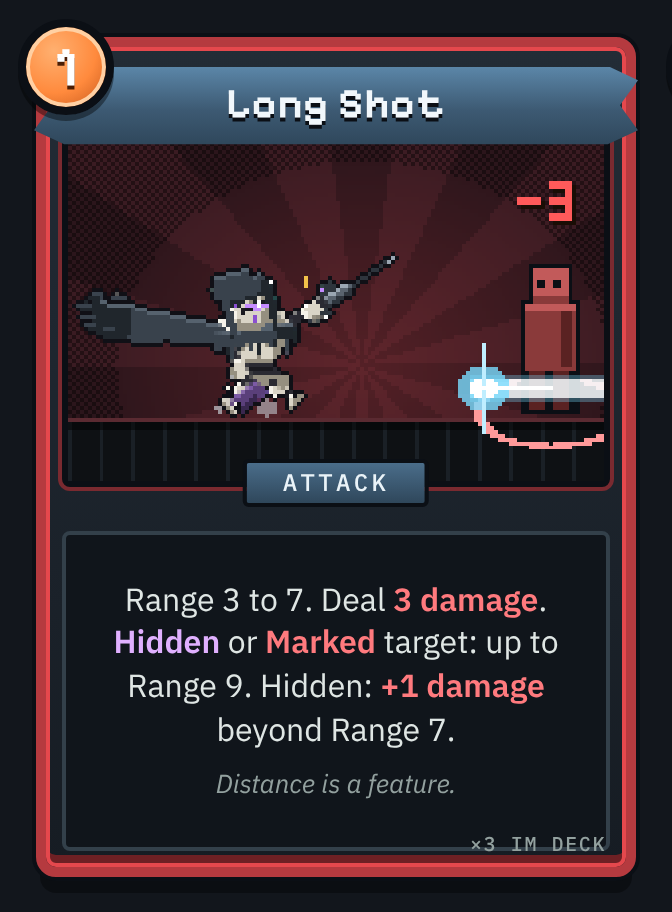
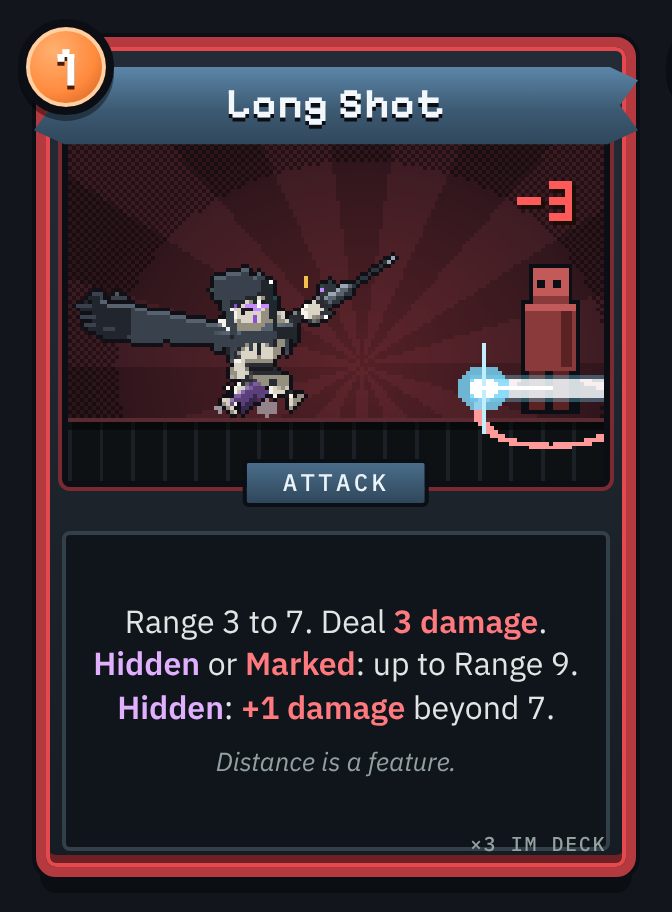
Long Shot: the two conditions on their own line (#415)
Claude-Session: https://claude.ai/code/session_01Rn1Tt7X9tQdJ1krB9aWBpp

Changed region(s): [[0.125, 0.6447, 0.8438, 0.8904]]

diff --git a/docs/design/cards/reference/card-faces.html b/docs/design/cards/reference/card-faces.html
@@ -2212,7 +2212,7 @@ Object.assign(CARDS, {
   tpitch: { cost: '+1', kind: 'action', name: 'Cannibalize', text: 'Discard a card. Gain <b class="energy">1 Energy</b>. Any card can be used this way.', flavor: 'Parts is parts.', copies: 0, label: 'Pitch', hero: 'tilly' }
 });
 Object.assign(CARDS, {
-  kl: { cost: 1, kind: 'attack', name: 'Long Shot', text: 'Range 3 to 7. Deal <b class="dmg">3 damage</b>. <b class="hid">Hidden</b> or <b class="marked">Marked</b> target: up to Range 9. Hidden: <b class="dmg">+1 damage</b> beyond Range 7.', flavor: 'Distance is a feature.', copies: 3, hero: 'kit' },
+  kl: { cost: 1, kind: 'attack', name: 'Long Shot', text: 'Range 3 to 7. Deal <b class="dmg">3 damage</b>.<br><b class="hid">Hidden</b> or <b class="marked">Marked</b>: up to Range 9. <b class="hid">Hidden</b>: <b class="dmg">+1 damage</b> beyond 7.', flavor: 'Distance is a feature.', copies: 3, hero: 'kit' },
   kv: { cost: 1, kind: 'utility', name: 'Vanish', text: 'Become <b class="hid">Hidden</b> for 2 Resolutions, wherever you stand. Taking damage or shooting ends it.', flavor: 'Out of office.', copies: 2, hero: 'kit' },
   kk: { cost: 1, kind: 'attack', name: 'Personal Space', text: 'Range 1 to 2. Deal <b class="dmg">1 damage</b>. Push the target up to <b class="energy">3 tiles</b> away from you.', flavor: 'Boundaries are important.', copies: 2, hero: 'kit' },
   kb: { cost: 1, kind: 'attack', name: 'Shield Breaker', text: 'Range 2 to 4. Deal <b class="dmg">2 damage</b> through <b class="shield">Shield</b> and all Cover.', flavor: 'Insurance does not cover this.', copies: 2, hero: 'kit' },
